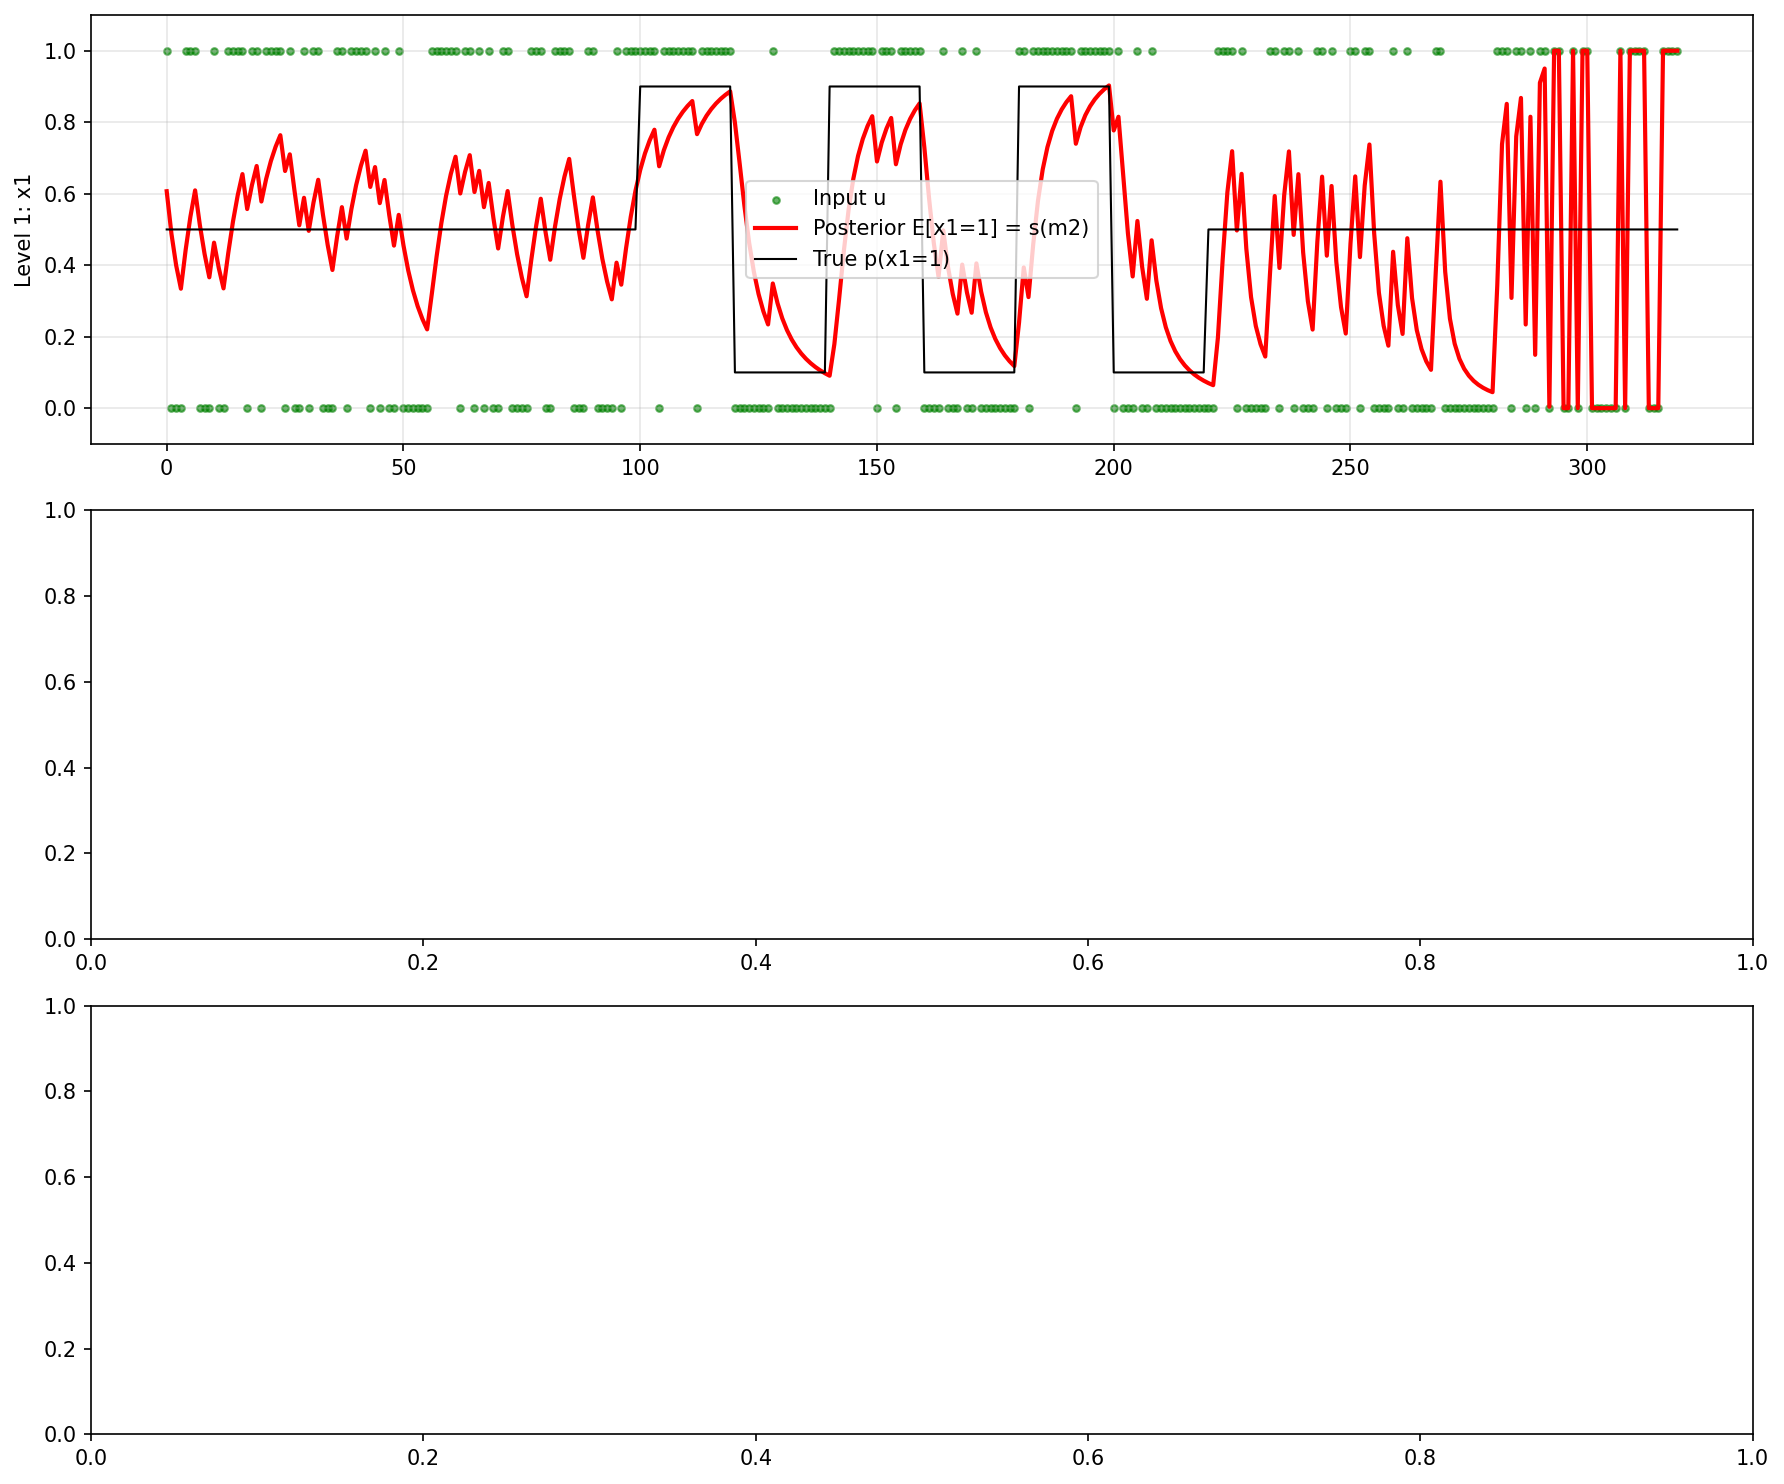
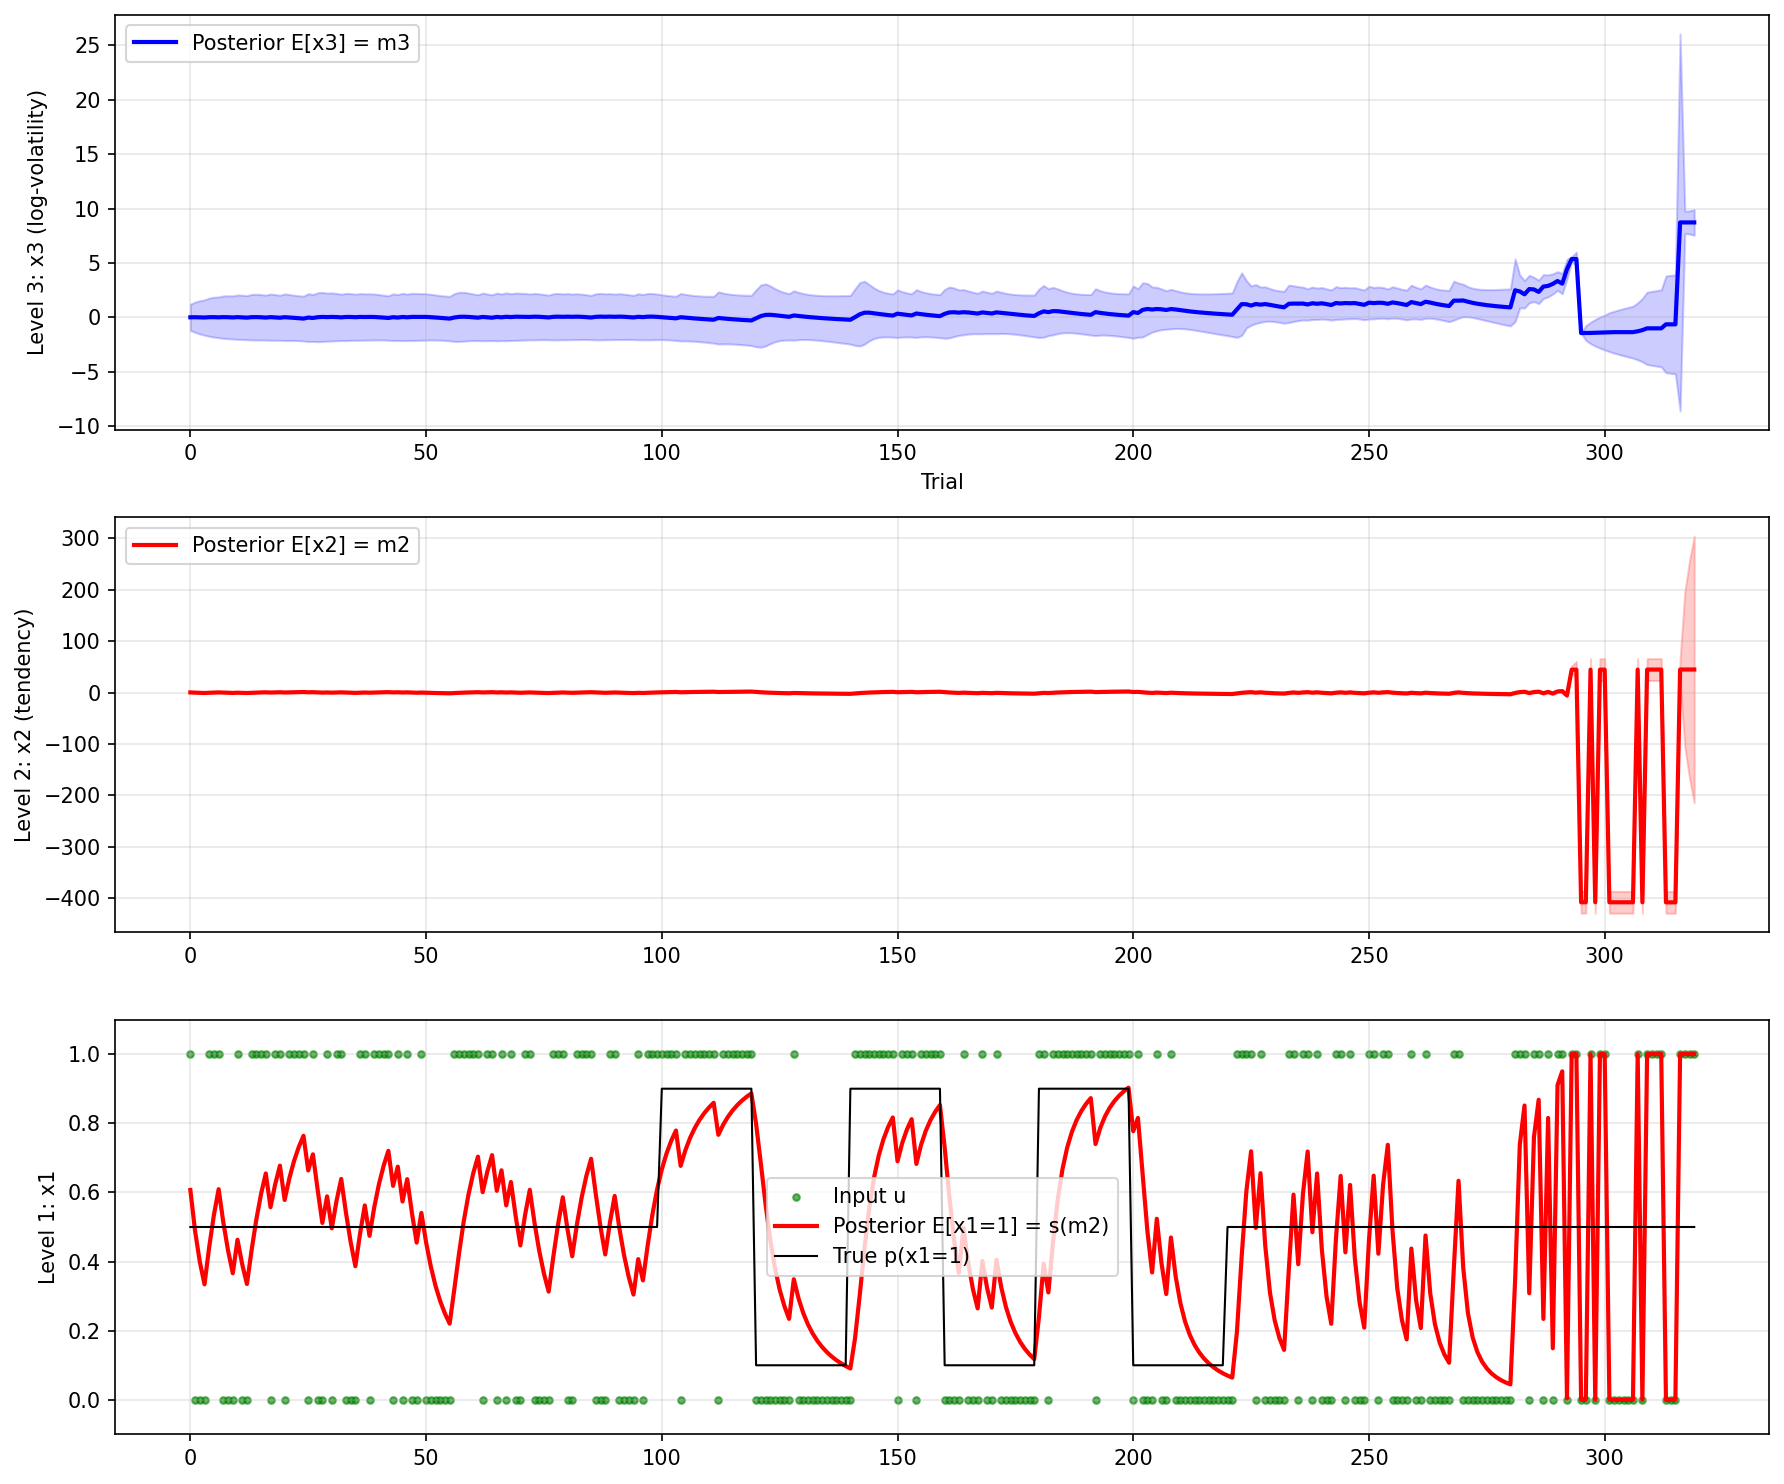
intermediate

diff --git a/hgf.py b/hgf.py
@@ -23,8 +23,7 @@ class HGF:
         self.s3 = 1.0  # $\sigma_{3}^{(n)}$, n = 0, ..., k - 1
 
         self.m1_hat_prev = 0
-
-        self.counter = 0
+        self._counter = 0
 
         self.history = {"m1": [], "m2": [], "m3": [], "s2": [], "s3": [], "u": []}
 
@@ -115,7 +114,7 @@ class HGF:
         self.history["s2"].append(self.s2)
         self.history["s3"].append(self.s3)
 
-        self.counter += 1
+        self._counter += 1
 
     def run_simulation(self, inputs):
         for u in inputs:
@@ -126,11 +125,46 @@ class HGF:
         fig, axes = plt.subplots(3, 1, figsize=(12, 10))
         trials = np.arange(len(self.history["u"]))
 
-        # Level 1: Inputs and belief
+        # Level 3: Log-volatility
         ax = axes[0]
+        ax.plot(trials, self.history["m3"], "b-", linewidth=2, label="Posterior E[x3] = m3")
+        s3_array = np.array(self.history["s3"])
+        s3_array[s3_array < 0] = 0
+        m3_array = np.array(self.history["m3"])
+        ax.fill_between(
+            trials,
+            m3_array - np.sqrt(s3_array),
+            m3_array + np.sqrt(s3_array),
+            alpha=0.2,
+            color="blue",
+        )
+        ax.set_ylabel("Level 3: x3 (log-volatility)")
+        ax.set_xlabel("Trial")
+        ax.legend()
+        ax.grid(True, alpha=0.3)
+
+        # Level 2: Tendency
+        ax = axes[1]
+        ax.plot(trials, self.history["m2"], "r-", linewidth=2, label="Posterior E[x2] = m2")
+        s2_array = np.array(self.history["s2"])
+        m2_array = np.array(self.history["m2"])
+        ax.fill_between(
+            trials,
+            m2_array - np.sqrt(s2_array),
+            m2_array + np.sqrt(s2_array),
+            alpha=0.2,
+            color="red",
+        )
+        ax.set_ylabel("Level 2: x2 (tendency)")
+        ax.legend()
+        ax.grid(True, alpha=0.3)
+
+        # Level 1: Inputs and belief
+        ax = axes[2]
         ax.scatter(trials, self.history["u"], c="green", s=10, label="Input u", alpha=0.6)
-        m1_prob = [sigmoid(m2) for m2 in self.history["m2"]]
-        # m1_prob = self.history["m1"]
+
+        m1_prob = [np.clip(sigmoid(m2), 1e-10, 1 - 1e-10) for m2 in self.history["m2"]]
+
         ax.plot(trials, m1_prob, "r-", linewidth=2, label="Posterior E[x1=1] = s(m2)")
         if true_prob is not None:
             ax.plot(trials, true_prob, "k-", linewidth=1, label="True p(x1=1)")
@@ -138,40 +172,6 @@ class HGF:
         ax.set_ylim(-0.1, 1.1)
         ax.legend()
         ax.grid(True, alpha=0.3)
-
-        # # Level 2: Tendency
-        # ax = axes[1]
-        # ax.plot(trials, self.history["m2"], "r-", linewidth=2, label="Posterior E[x2] = m2")
-        # s2_array = np.array(self.history["s2"])
-        # m2_array = np.array(self.history["m2"])
-        # ax.fill_between(
-        #     trials,
-        #     m2_array - np.sqrt(s2_array),
-        #     m2_array + np.sqrt(s2_array),
-        #     alpha=0.2,
-        #     color="red",
-        # )
-        # ax.set_ylabel("Level 2: x2 (tendency)")
-        # ax.legend()
-        # ax.grid(True, alpha=0.3)
-
-        # # Level 3: Log-volatility
-        # ax = axes[2]
-        # ax.plot(trials, self.history["m3"], "b-", linewidth=2, label="Posterior E[x3] = m3")
-        # s3_array = np.array(self.history["s3"])
-        # s3_array[s3_array < 0] = 0
-        # m3_array = np.array(self.history["m3"])
-        # ax.fill_between(
-        #     trials,
-        #     m3_array - np.sqrt(s3_array),
-        #     m3_array + np.sqrt(s3_array),
-        #     alpha=0.2,
-        #     color="blue",
-        # )
-        # ax.set_ylabel("Level 3: x3 (log-volatility)")
-        # ax.set_xlabel("Trial")
-        # ax.legend()
-        # ax.grid(True, alpha=0.3)
 
         plt.tight_layout()
         return fig
@@ -221,3 +221,4 @@ if __name__ == "__main__":
     fig = hgf.plot_results(true_prob=true_prob)
     plt.savefig("hgf_reference_scenario.png", dpi=150, bbox_inches="tight")
     plt.show()
+    sum = 41
